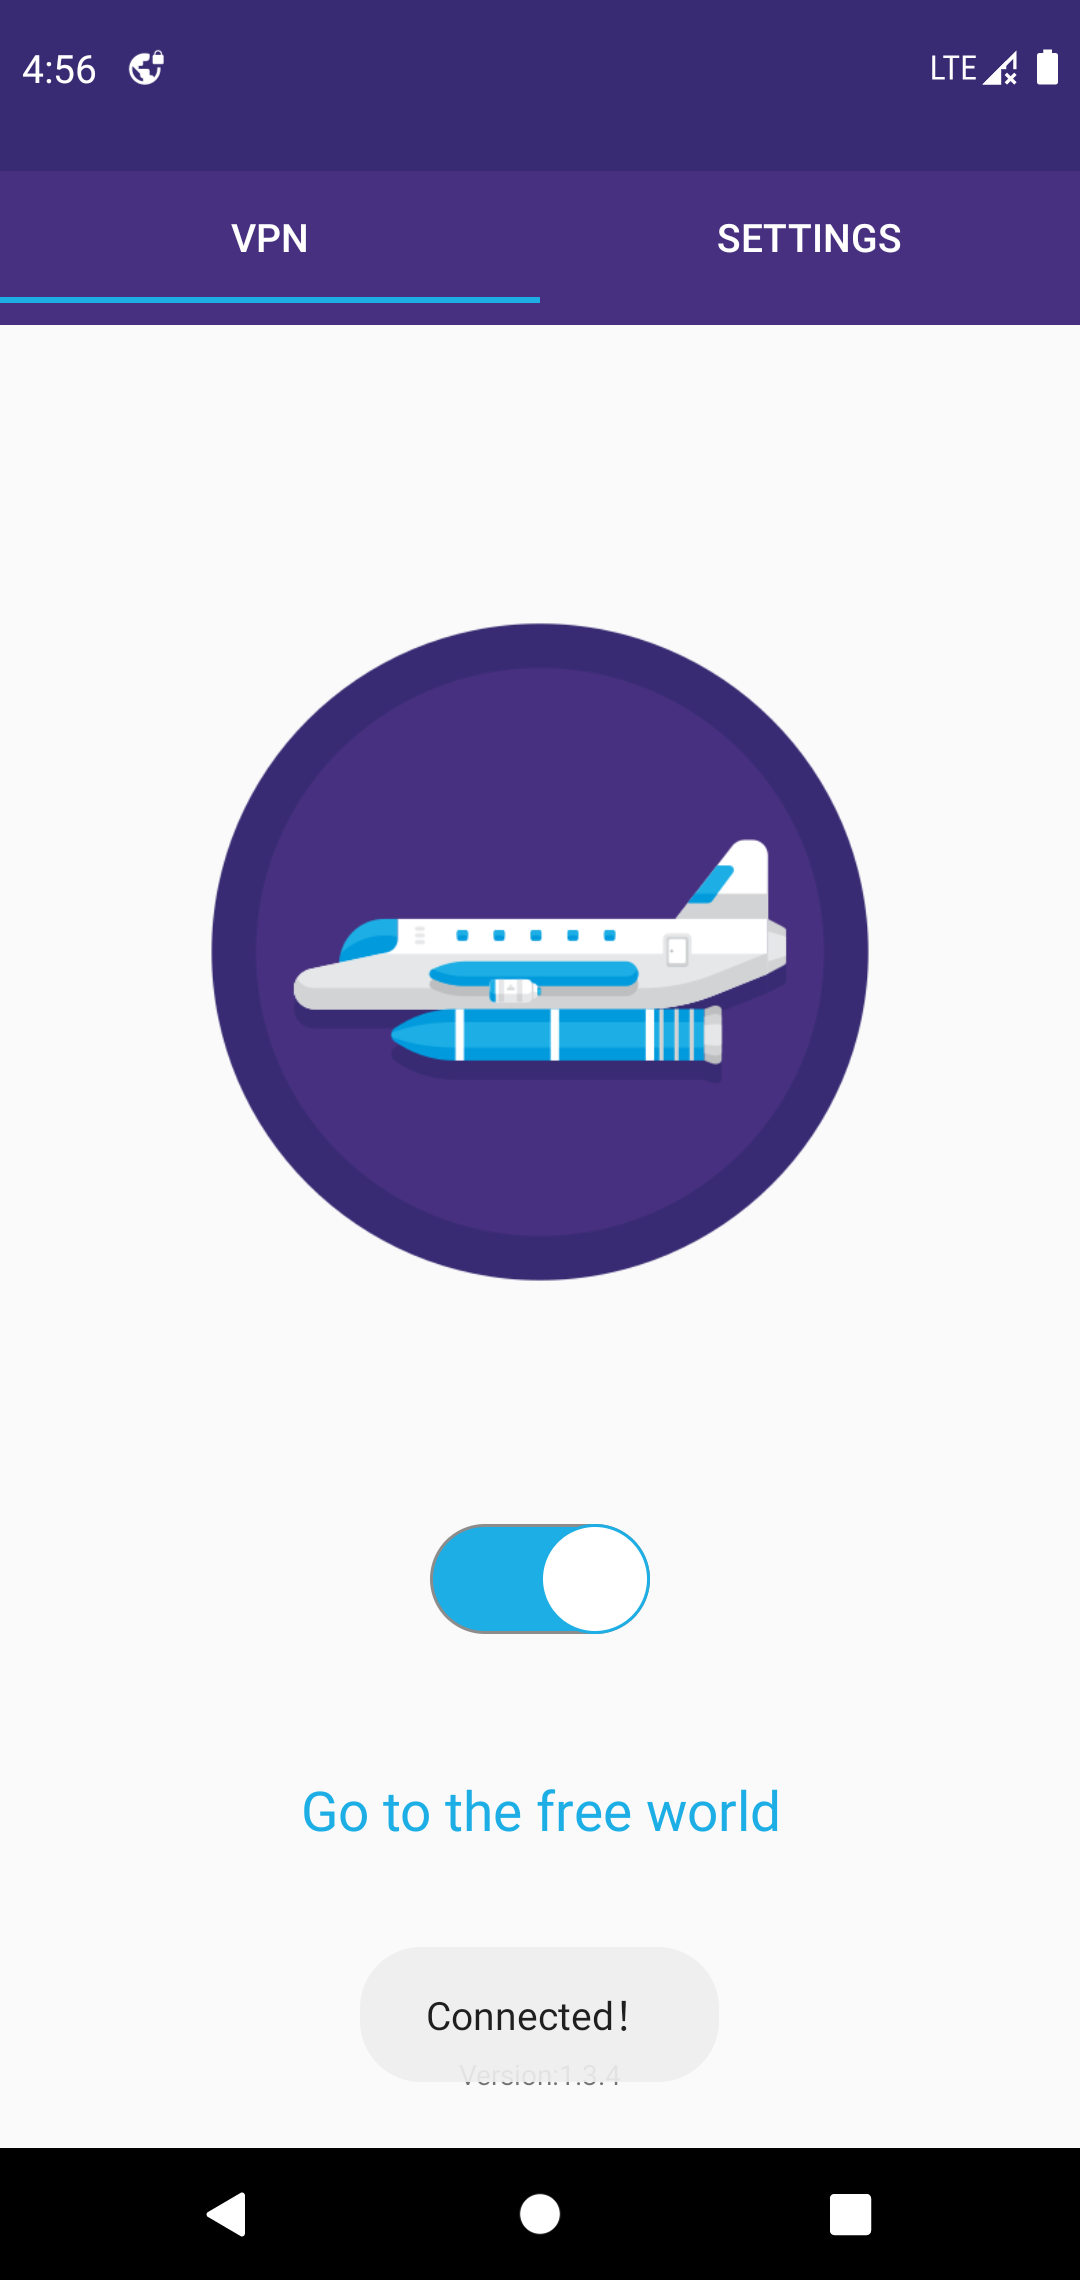
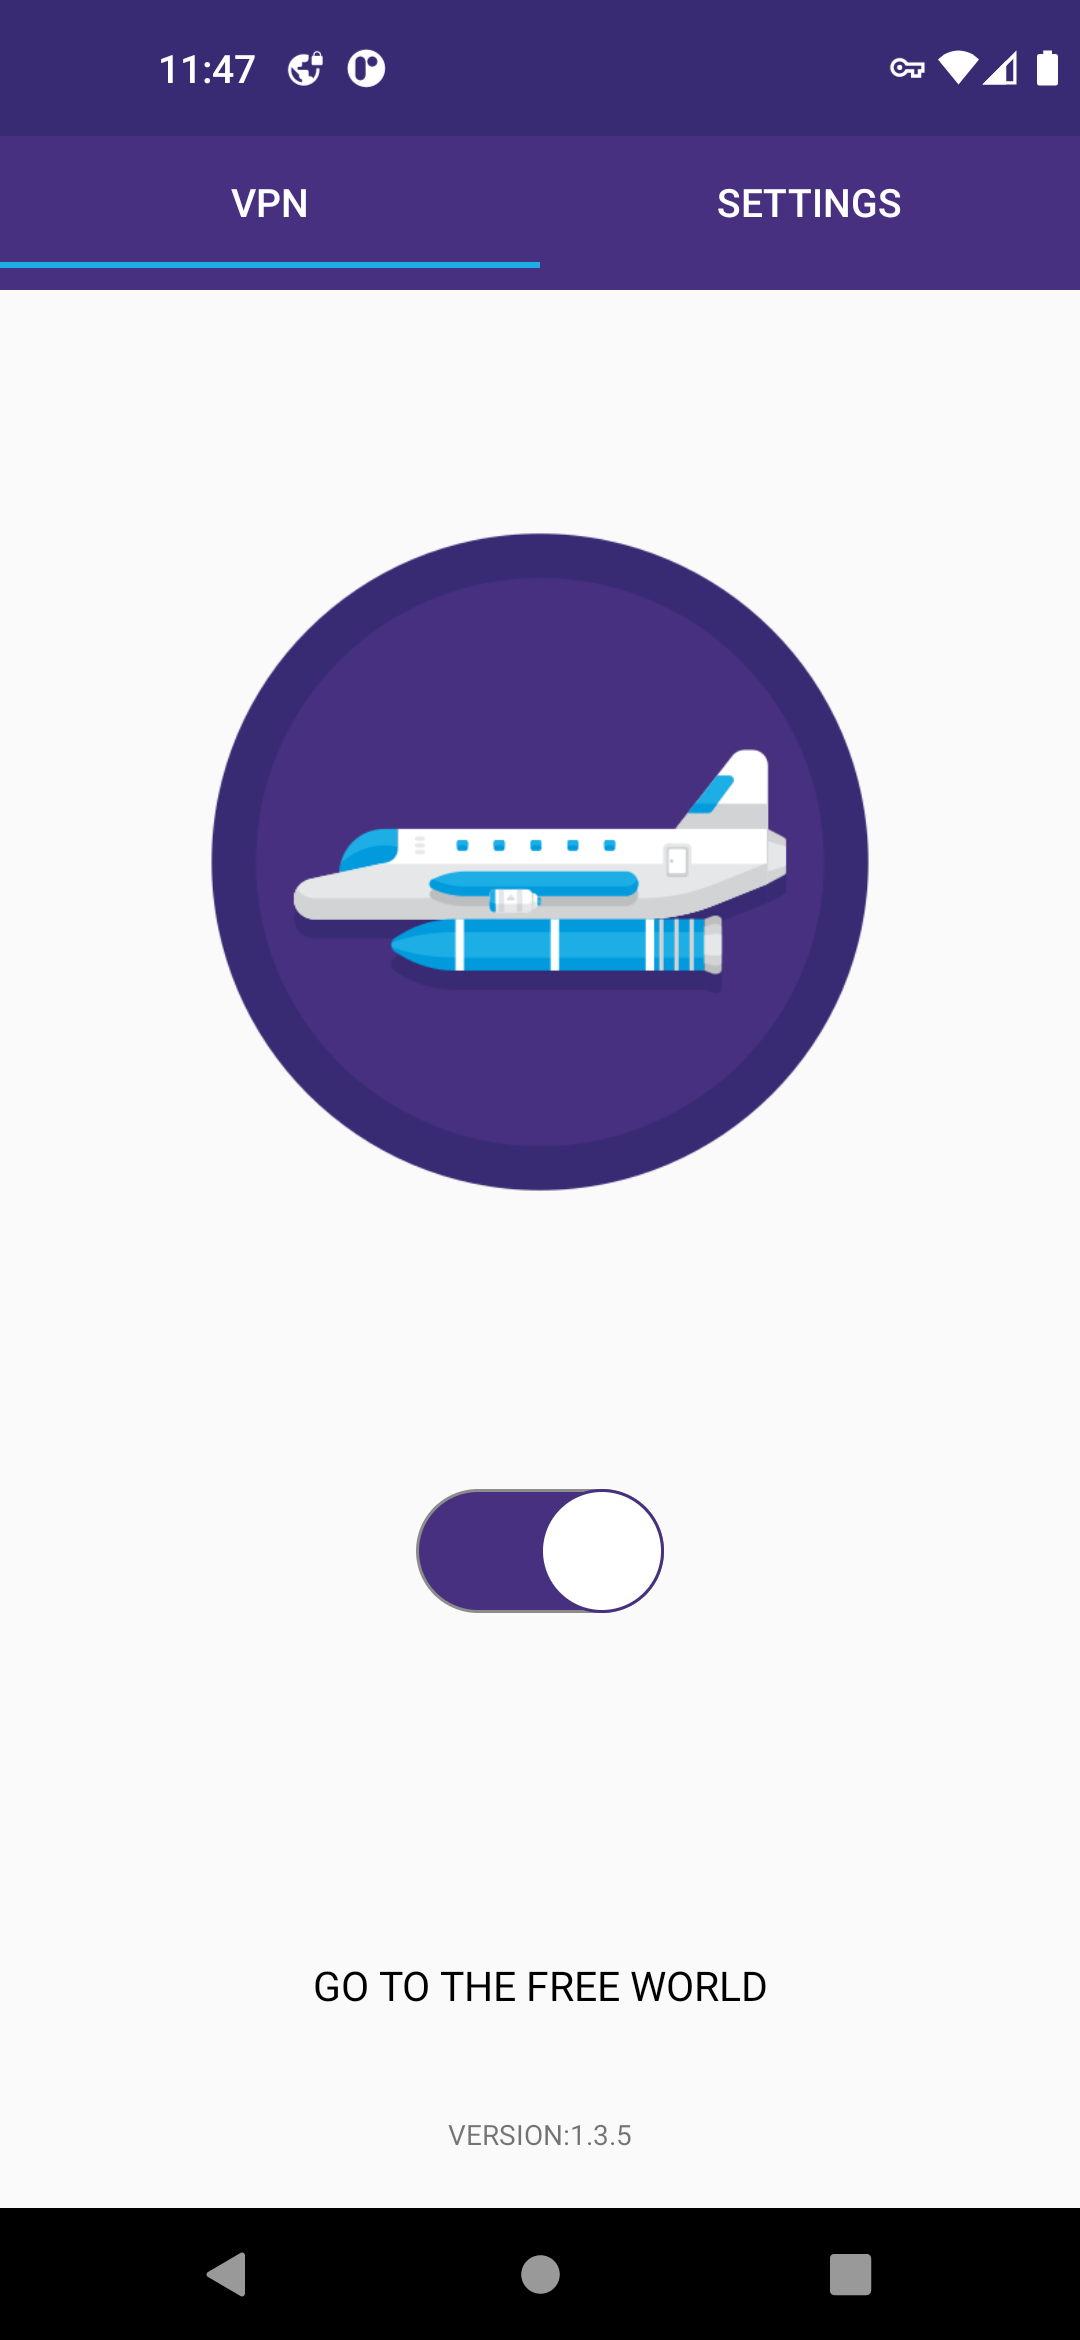
upgrade 1.3.5

diff --git a/app/src/main/java/com/netbyte/vtunnel/thread/StatThread.java b/app/src/main/java/com/netbyte/vtunnel/thread/StatThread.java
@@ -42,7 +42,7 @@ public class StatThread extends Thread {
                 Thread.sleep(3000);
                 if (TextUtils.isEmpty(AppConst.LOCAL_ADDRESS)) {
                     String title = "Failed to connect!";
-                    builder.setStyle(new NotificationCompat.BigTextStyle().setBigContentTitle(title));
+                    builder.setStyle(new NotificationCompat.BigTextStyle().setBigContentTitle("").bigText(title));
                     break;
                 }
                 if (isAirplaneModeOn(vpnService.getApplicationContext())) {
@@ -51,8 +51,8 @@ public class StatThread extends Thread {
                     break;
                 }
                 String title = String.format("IP: %s", AppConst.LOCAL_ADDRESS);
-                String text = String.format("Net: ↑ %s ↓ %s", ByteUtil.format(AppConst.UP_BYTE.get()), ByteUtil.format(AppConst.DOWN_BYTE.get()));
-                builder.setStyle(new NotificationCompat.BigTextStyle().setBigContentTitle(title).bigText(text));
+                String text = String.format("Network: ↓ %s ↑ %s", ByteUtil.format(AppConst.DOWN_BYTE.get()), ByteUtil.format(AppConst.UP_BYTE.get()));
+                builder.setStyle(new NotificationCompat.BigTextStyle().setSummaryText(title).setBigContentTitle("").bigText(text));
                 notificationManager.notify(AppConst.NOTIFICATION_ID, builder.build());
                 checkCount++;
                 if (checkCount % 100 == 0) {
@@ -69,6 +69,7 @@ public class StatThread extends Thread {
             ipService.deleteIp(AppConst.LOCAL_ADDRESS);
         }
         vpnService.stopForeground(true);
+        notificationManager.cancel(AppConst.NOTIFICATION_ID);
         Log.i(TAG, "stop");
     }
 

diff --git a/app/src/main/java/com/netbyte/vtunnel/activity/HomeTab.java b/app/src/main/java/com/netbyte/vtunnel/activity/HomeTab.java
@@ -61,7 +61,7 @@ public class HomeTab extends Fragment {
                 data.putExtra("isChecked", isChecked);
                 onActivityResult(0, RESULT_OK, data);
             }
-            Toast.makeText(activity, isChecked ? "Connected！" : "Disconnected!", Toast.LENGTH_LONG).show();
+            Toast.makeText(activity, isChecked ? "STARTED ！" : "STOPPED !", Toast.LENGTH_LONG).show();
         });
         {
 

diff --git a/README.md b/README.md
@@ -1,7 +1,4 @@
 # vTunnel
-<p align="center">
-	<img src="https://raw.githubusercontent.com/net-byte/vTunnel/main/Icon.png" alt="vTunnel" width="200">
-</p>
 
 A simple android VPN app.
 
